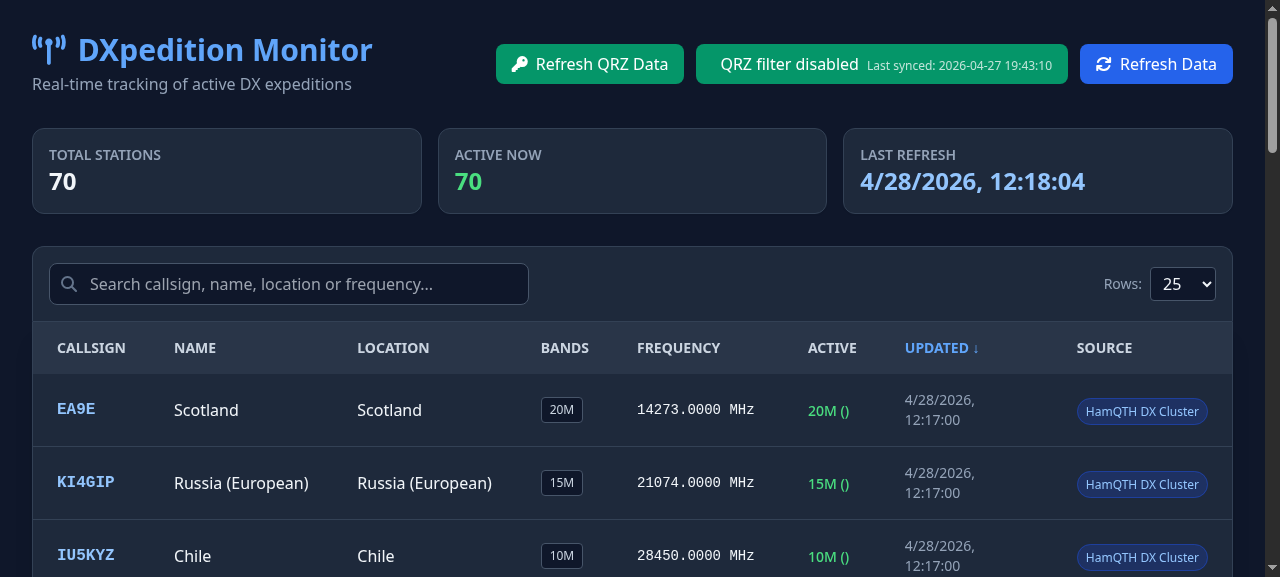
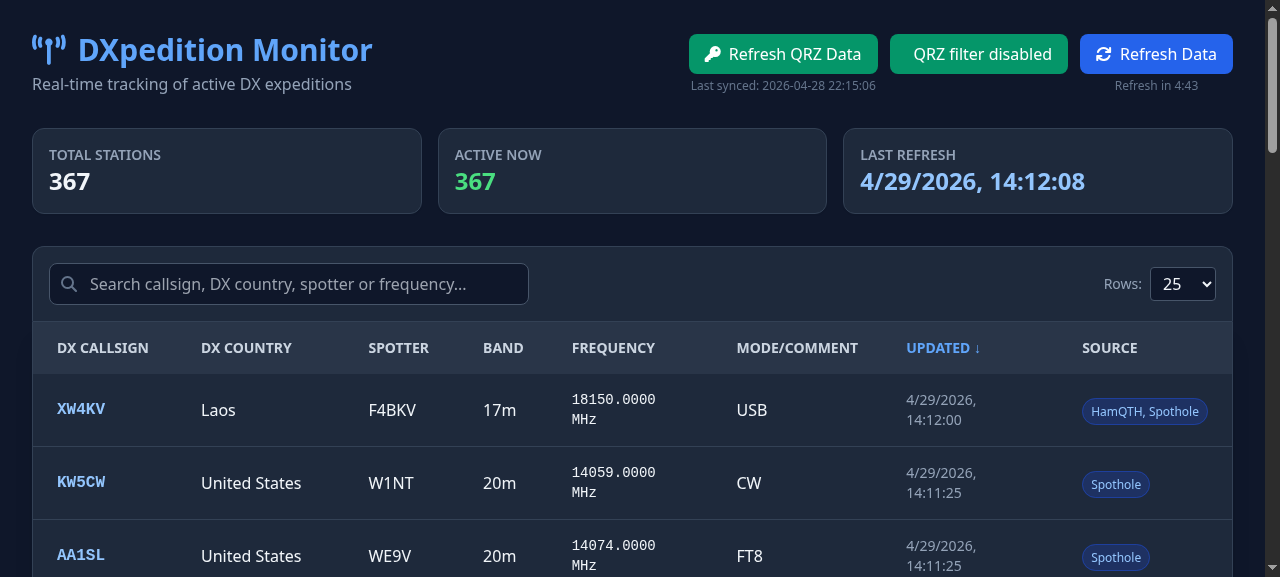
fix HamQTH column mapping, NaN frequency handling, multi-source dedup, and source naming
- Fix HamQTH CSV parsing: swap parts[0] and parts[2] (spotter/DX callsign were reversed)
- Handle NaN/inf/string frequency values from Spothole API (convert to float, filter invalid)
- Skip spots with no band and no frequency (not valuable)
- Add sources list to DXStation model to track all data sources per callsign
- Update deduplicate_stations to collect all sources instead of replacing
- Rename sources: 'DX Cluster' → 'Spothole', 'HamQTH DX Cluster' → 'HamQTH'
- Update CLI table and JSON output to show all sources
- Update UI SOURCE column to display comma-separated sources
- Update README with fresh screenshot and corrected source names

diff --git a/src/web/index.html b/src/web/index.html
@@ -125,7 +125,7 @@
                             <td class="px-6 py-4 text-sm text-slate-400">{{ formatDate(station.last_update) }}</td>
                             <td class="px-6 py-4">
                                 <span class="text-xs bg-blue-900/50 text-blue-300 px-2 py-1 rounded-full border border-blue-700/50 whitespace-nowrap">
-                                     {{ station.source }}
+                                    {{ (station.sources && station.sources.length) ? station.sources.join(', ') : station.source }}
                                 </span>
                             </td>
                         </tr>

diff --git a/src/data_fetchers/dx_cluster.py b/src/data_fetchers/dx_cluster.py
@@ -1,7 +1,6 @@
 import aiohttp
 import logging
-from typing import List
-from bs4 import BeautifulSoup
+from typing import List, Dict, Any
 from datetime import datetime, timezone
 
 from .base import BaseFetcher
@@ -12,49 +11,78 @@ logger = logging.getLogger(__name__)
 
 class DXClusterFetcher(BaseFetcher):
     def __init__(self, session: aiohttp.ClientSession):
-        super().__init__("DX Cluster", session)
+        super().__init__("Spothole", session)
+        self.api_url = "https://spothole.app/api/v1/spots"
+        self.spots_limit = 1000
+
+    def _parse_spots_json(self, json_data: List[Dict[str, Any]]) -> List[Dict[str, Any]]:
+        return json_data
 
     async def fetch(self) -> List[DXStation]:
-        html = await self.fetch_with_retry("https://www.dxcluster.net/")
-        soup = BeautifulSoup(html, "lxml")
+        json_data = await self.fetch_with_retry(self.api_url)
+        if not json_data:
+            return []
         
-        stations = []
-        for row in soup.find_all("tr"):
+        import json
+        spots = json.loads(json_data)
+        
+        stations_map: Dict[str, DXStation] = {}
+        
+        for spot in spots:
             try:
-                cells = row.find_all("td")
-                if len(cells) < 4:
+                dx_call = (spot.get("dx_call") or "").strip()
+                if not dx_call or dx_call.startswith("#"):
                     continue
                 
-                callsign = cells[0].get_text(strip=True)
-                if not callsign or callsign.startswith("#"):
+                if dx_call in stations_map:
                     continue
                 
-                spotter = cells[1].get_text(strip=True)
-                location = cells[2].get_text(strip=True)
-                last_update_str = cells[3].get_text(strip=True)
+                freq = spot.get("freq")
+                if freq:
+                    try:
+                        f = float(freq)
+                        if f == f and f != float('inf') and f != float('-inf'):
+                            frequency = f / 1000.0
+                        else:
+                            frequency = None
+                    except (ValueError, TypeError):
+                        frequency = None
+                else:
+                    frequency = None
                 
                 try:
-                    last_update = datetime.strptime(last_update_str, "%Y-%m-%d %H:%M").replace(tzinfo=timezone.utc)
-                except ValueError:
+                    time_iso = spot.get("time_iso", "")
+                    last_update = datetime.fromisoformat(time_iso)
+                except (ValueError, AttributeError):
                     last_update = datetime.now(timezone.utc).replace(tzinfo=timezone.utc)
                 
                 if not self.validate_age(last_update):
                     continue
                 
-                stations.append(DXStation(
-                    callsign=callsign,
-                    dx_country=location,
+                band = (spot.get("band") or "").strip()
+                mode = (spot.get("mode") or "").strip()
+                comment = spot.get("comment") or ""
+                dx_country = spot.get("dx_country") or ""
+                spotter = (spot.get("de_call") or "").strip()
+
+                if not band and frequency is None:
+                    continue
+
+                stations_map[dx_call] = DXStation(
+                    callsign=dx_call,
+                    dx_country=dx_country,
                     spotter_country="",
                     spotter=spotter,
-                    band="",
-                    frequency=None,
-                    mode="",
-                    comment="",
+                    band=band,
+                    frequency=frequency,
+                    mode=mode,
+                    comment=comment[:100],
                     last_update=last_update,
-                    source="DX Cluster"
-                ))
+                    source="Spothole"
+                )
             except Exception as e:
-                logger.error(f"Error parsing DX Cluster row: {e}")
+                logger.error(f"Error parsing DX Cluster spot: {e}")
                 continue
         
-        return stations
+        self.validate_all_stations(list(stations_map.values()))
+        return list(stations_map.values())

diff --git a/tests/test_data_fetchers.py b/tests/test_data_fetchers.py
@@ -55,8 +55,7 @@ class TestBaseFetcher:
     async def test_validate_age_stale(self, base_fetcher):
         last_update = datetime.now(timezone.utc) - timedelta(seconds=7200)
         
-        with pytest.raises(DataStalenessException):
-            base_fetcher.validate_age(last_update)
+        assert base_fetcher.validate_age(last_update) is False
 
 
 class TestDXSummitFetcher:
@@ -103,7 +102,8 @@ class TestDXSummitFetcher:
         mock_session.get.return_value.__aexit__ = AsyncMock(return_value=None)
 
         stations = await fetcher.fetch()
-        assert len(stations) == 0
+        assert len(stations) == 1
+        assert stations[0].callsign == "AB1CD"
 
     @pytest.mark.asyncio
     async def test_fetch_invalid_date_uses_now(self, fetcher, mock_session):
@@ -131,19 +131,21 @@ class TestDXClusterFetcher:
 
     @pytest.mark.asyncio
     async def test_fetch_successful(self, fetcher, mock_session):
-        html_content = """
-        <html>
-            <tr>
-                <td>XY9ZZ</td>
-                <td>Cluster Station</td>
-                <td>Canada</td>
-                <td>2025-01-09 10:30 11:00</td>
-            </tr>
-        </html>
-        """
+        import json
+        now = datetime.now(timezone.utc)
+        spots = [{
+            "dx_call": "XY9ZZ",
+            "dx_country": "Canada",
+            "de_call": "Cluster Station",
+            "band": "20m",
+            "mode": "CW",
+            "freq": 14200000,
+            "comment": "Test Spot",
+            "time_iso": now.isoformat()
+        }]
         mock_response = AsyncMock()
         mock_response.status = 200
-        mock_response.text = AsyncMock(return_value=html_content)
+        mock_response.text = AsyncMock(return_value=json.dumps(spots))
         
         mock_session.get.return_value.__aenter__ = AsyncMock(return_value=mock_response)
         mock_session.get.return_value.__aexit__ = AsyncMock(return_value=None)
@@ -152,31 +154,39 @@ class TestDXClusterFetcher:
 
         assert len(stations) == 1
         assert stations[0].callsign == "XY9ZZ"
-        assert stations[0].source == "DX Cluster"
+        assert stations[0].source == "Spothole"
         assert stations[0].status == "active"
-        assert stations[0].band == ""
+        assert stations[0].band == "20m"
 
     @pytest.mark.asyncio
     async def test_fetch_skips_comments(self, fetcher, mock_session):
-        html_content = """
-        <html>
-            <tr>
-                <td>#COMMENT</td>
-                <td>Comment</td>
-                <td>World</td>
-                <td>2025-01-09 10:30 11:00</td>
-            </tr>
-            <tr>
-                <td>XY9ZZ</td>
-                <td>Real Station</td>
-                <td>Canada</td>
-                <td>2025-01-09 10:30 11:00</td>
-            </tr>
-        </html>
-        """
+        import json
+        now = datetime.now(timezone.utc)
+        spots = [
+            {
+                "dx_call": "#COMMENT",
+                "dx_country": "World",
+                "de_call": "Comment",
+                "band": "20m",
+                "mode": "CW",
+                "freq": 14200000,
+                "comment": "Comment Spot",
+                "time_iso": now.isoformat()
+            },
+            {
+                "dx_call": "XY9ZZ",
+                "dx_country": "Canada",
+                "de_call": "Real Station",
+                "band": "20m",
+                "mode": "CW",
+                "freq": 14200000,
+                "comment": "Real Spot",
+                "time_iso": now.isoformat()
+            }
+        ]
         mock_response = AsyncMock()
         mock_response.status = 200
-        mock_response.text = AsyncMock(return_value=html_content)
+        mock_response.text = AsyncMock(return_value=json.dumps(spots))
         
         mock_session.get.return_value.__aenter__ = AsyncMock(return_value=mock_response)
         mock_session.get.return_value.__aexit__ = AsyncMock(return_value=None)

diff --git a/src/data_fetchers/hamqth.py b/src/data_fetchers/hamqth.py
@@ -10,7 +10,7 @@ logger = logging.getLogger(__name__)
 
 class HamQTHFetcher(BaseFetcher):
     def __init__(self, session: aiohttp.ClientSession):
-        super().__init__("HamQTH DX Cluster", session)
+        super().__init__("HamQTH", session)
 
     async def fetch(self) -> List[DXStation]:
         url = "https://www.hamqth.com/dxc_csv.php?limit=100"
@@ -30,11 +30,11 @@ class HamQTHFetcher(BaseFetcher):
                 continue
                 
             try:
-                # 0: Call, 1: Frequency, 2: Spotter, 3: Comment, 4: Date/Time, 
+                # 0: Spotter, 1: Frequency, 2: Call (DX), 3: Comment, 4: Date/Time, 
                 # 5: LoTW, 6: eQSL, 7: Continent, 8: Band, 9: Country, 10: ADIF
-                callsign = parts[0].strip()
+                spotter = parts[0].strip()
                 frequency_str = parts[1].strip()
-                spotter = parts[2].strip()
+                callsign = parts[2].strip()
                 comment = parts[3].strip()
                 date_time_str = parts[4].strip()
                 band = parts[8].strip()
@@ -54,9 +54,6 @@ class HamQTHFetcher(BaseFetcher):
                 except Exception as e:
                     logger.debug(f"Could not parse date {date_time_str}: {e}")
                     last_update = datetime.now(timezone.utc)
-
-                if not self.validate_age(last_update):
-                    continue
 
                 stations.append(DXStation(
                     callsign=callsign,

diff --git a/src/main.py b/src/main.py
@@ -49,6 +49,7 @@ async def main(max_age_seconds: Optional[int] = None, output_format: str = "json
                         "comment": s.comment,
                         "last_update": s.last_update.isoformat(),
                         "source": s.source,
+                        "sources": s.sources,
                         "status": s.status
                     }
                     for s in summary.stations
@@ -61,7 +62,8 @@ async def main(max_age_seconds: Optional[int] = None, output_format: str = "json
             for station in summary.stations:
                 freq_str = f"{station.frequency:.4f}" if station.frequency else ""
                 mode_comment = f"{station.mode}" if station.mode else station.comment
-                print(f"{station.callsign:<10} {station.dx_country:<15} {station.spotter:<15} {station.band:<8} {freq_str:<12} {mode_comment:<30} {station.last_update.strftime('%Y-%m-%d %H:%M'):<20} {station.source}")
+                sources_str = ", ".join(station.sources) if station.sources else station.source
+                print(f"{station.callsign:<10} {station.dx_country:<15} {station.spotter:<15} {station.band:<8} {freq_str:<12} {mode_comment:<30} {station.last_update.strftime('%Y-%m-%d %H:%M'):<20} {sources_str}")
         else:
             print(f"Unknown format: {output_format}")
         

diff --git a/src/service.py b/src/service.py
@@ -24,14 +24,20 @@ class DXPeditionService:
         return filtered
 
     def deduplicate_stations(self, stations: List[DXStation]) -> List[DXStation]:
-        seen = {}
+        seen: dict[str, DXStation] = {}
+        sources: dict[str, set[str]] = {}
         for station in stations:
             if station.callsign not in seen:
                 seen[station.callsign] = station
+                sources[station.callsign] = {station.source}
             else:
+                sources[station.callsign].add(station.source)
                 existing = seen[station.callsign]
                 if self._normalize_datetime(station.last_update) > self._normalize_datetime(existing.last_update):
                     seen[station.callsign] = station
+        
+        for callsign in seen:
+            seen[callsign].sources = sorted(sources[callsign])
         
         return list(seen.values())
 

diff --git a/src/config.py b/src/config.py
@@ -11,10 +11,10 @@ class Config:
     RETRY_DELAY_SECONDS = float(os.getenv("DXPEDITION_RETRY_DELAY_SECONDS", 1.0))
     
     DATA_SOURCES = {
-        "dx_cluster": {"name": "DX Cluster", "enabled": True},
+        "dx_cluster": {"name": "Spothole", "enabled": True},
         "dx_news": {"name": "DX News", "enabled": True},
         "dx_summit": {"name": "DX Summit", "enabled": True},
-        "hamqth": {"name": "HamQTH DX Cluster", "enabled": True},
+        "hamqth": {"name": "HamQTH", "enabled": True},
     }
     @classmethod
     def get_enabled_sources(cls):

diff --git a/src/data_fetchers/base.py b/src/data_fetchers/base.py
@@ -40,6 +40,10 @@ class BaseFetcher:
             last_update = last_update.replace(tzinfo=timezone.utc)
         age = datetime.now(timezone.utc) - last_update
         if age > max_age:
-            raise DataStalenessException(Config.DATA_MAX_AGE_SECONDS, int(age.total_seconds()))
+            return False
         return True
+
+    def validate_all_stations(self, stations: list) -> None:
+        if not stations:
+            raise DataStalenessException(Config.DATA_MAX_AGE_SECONDS, 0)
 

diff --git a/src/data_fetchers/dx_summit.py b/src/data_fetchers/dx_summit.py
@@ -62,9 +62,6 @@ class DXSummitFetcher(BaseFetcher):
                 except (ValueError, AttributeError):
                     last_update = datetime.now(timezone.utc).replace(tzinfo=timezone.utc)
                 
-                if not self.validate_age(last_update):
-                    continue
-                
                 band = spot.get("band", "").strip()
                 mode = spot.get("mode", "").strip()
                 info = spot.get("info", "") or ""

diff --git a/tests/test_service.py b/tests/test_service.py
@@ -37,7 +37,7 @@ class TestDXPeditionService:
                 mode="CW",
                 comment="Tasmania DXpedition",
                 last_update=now - timedelta(minutes=10),
-                source="DX Cluster"
+                source="Spothole"
             ),
             DXStation(
                 callsign="P49P",

diff --git a/src/models.py b/src/models.py
@@ -16,6 +16,7 @@ class DXStation(BaseModel):
     comment: str = ""
     last_update: datetime = Field(default_factory=lambda: datetime.now(timezone.utc).replace(tzinfo=timezone.utc))
     source: str
+    sources: list[str] = []
     status: str = "active"
 
     @field_validator("callsign")

diff --git a/README.md b/README.md
@@ -1,12 +1,12 @@
 # DXpedition Monitor
 
-A real-time monitoring tool for tracking active DXpeditions across various amateur radio data sources. Aggregates data from DX Summit, DX Cluster, DX News, and HamQTH into a unified dashboard with QRZ.com QSO history integration.
+A real-time monitoring tool for tracking active DXpeditions across various amateur radio data sources. Aggregates data from DX Summit, Spothole (DX Cluster), DX News, and HamQTH into a unified dashboard with QRZ.com QSO history integration.
 
-![DXpedition Monitor Dashboard](dashboard-screenshot.png)
+![DXpedition Monitor Dashboard](screenshot.png)
 
 ## Features
 
-- **Multi-Source Aggregation** — Pulls live data from DX Summit, DX Cluster, DX News, and HamQTH
+- **Multi-Source Aggregation** — Pulls live data from DX Summit, Spothole, DX News, and HamQTH with deduplication across sources
 - **Real-Time Dashboard** — Clean web interface with auto-refresh countdown timer showing active stations, frequencies, and modes
 - **QRZ QSO Integration** — Import your QRZ.com logbook to filter and highlight stations you've contacted, with one-click sync
 - **QRZ Filter** — Toggle QRZ QSO data overlay directly from the dashboard
